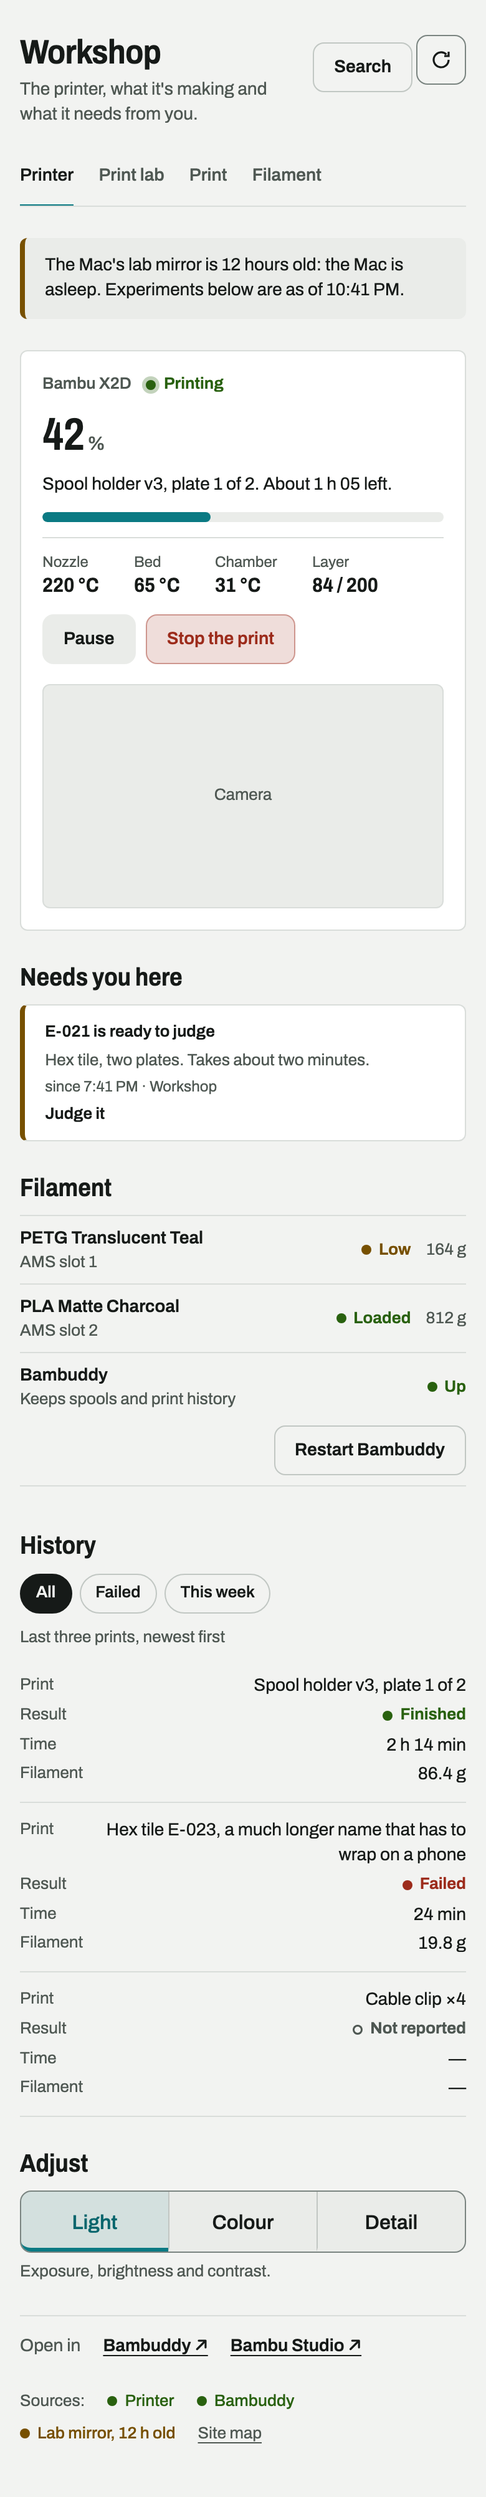
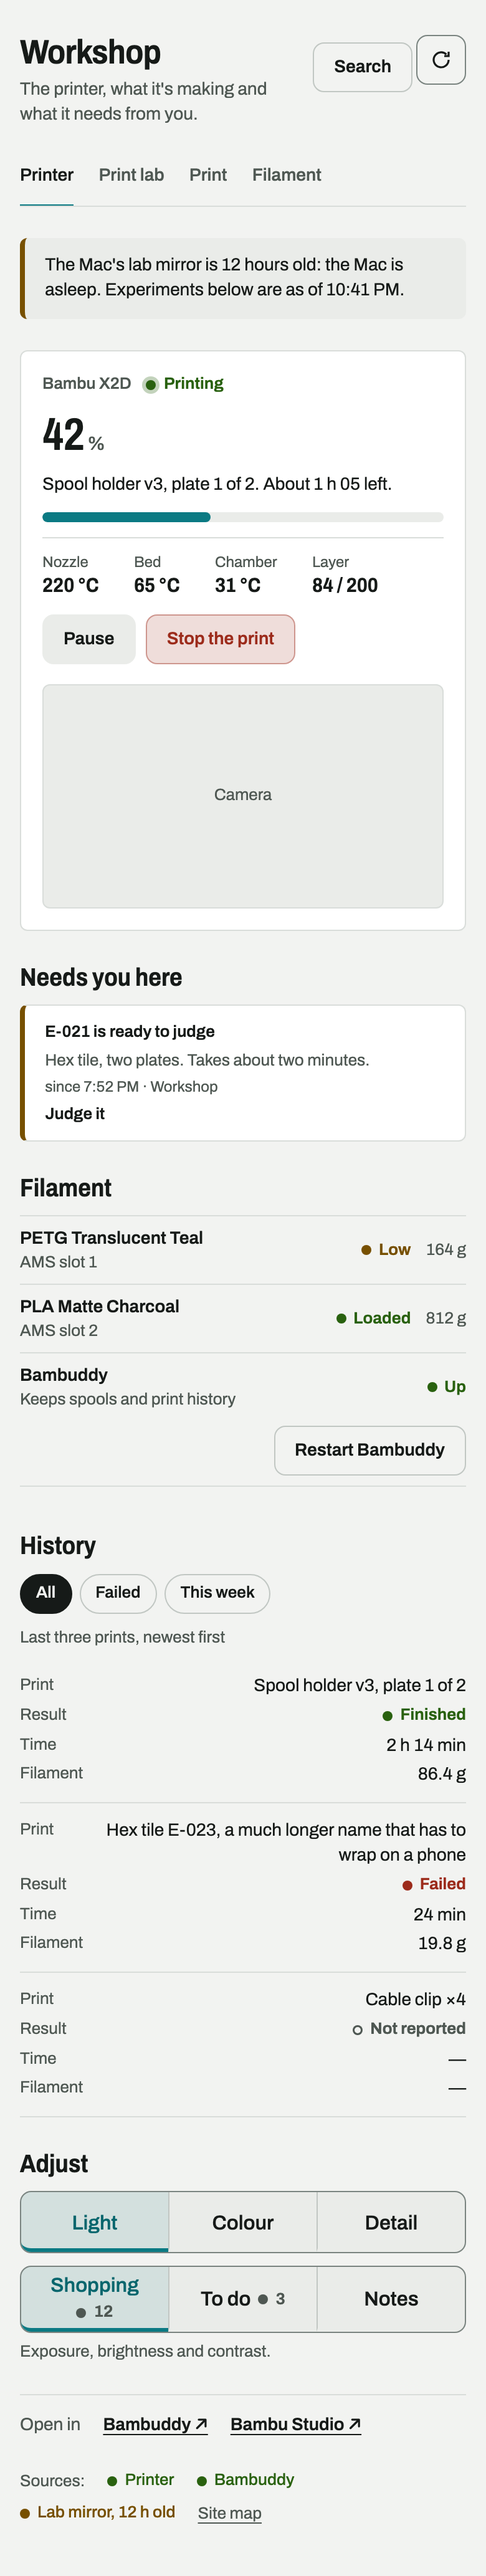
Kit 2.16.0: a tab's count drops under its label where the tab is narrow
Pi Hub's Lists at 320 px cut "Shopping 12" in a third of the width. The tab now wraps
what follows its label instead (the label itself stays whole); the tab stays at least
48 px. Test fails on the previous rule, passes now; demo has a Lists-shaped strip.

diff --git a/dist/components.css b/dist/components.css
@@ -74,10 +74,10 @@
    48 px high, 16 px labels (keep each to a word or two). The selected tab is marked three ways (an accent wash, accent
    text and a 3 px accent bar along its foot), so colour is never the only cue; the bar is a border, so it survives
    forced colours. Markup: role="tablist" on the strip, role="tab" and aria-selected on each button, and the app moves
-   focus between tabs with the arrow keys (the ARIA tabs pattern). A focused tab sits above its neighbours, so its
-   ring is never hidden. */
+   focus between tabs with the arrow keys (the ARIA tabs pattern). Where a tab is narrow, what follows its label (a
+   count) drops under it rather than being cut. A focused tab sits above its neighbours, so its ring is never hidden. */
 .ui-tabs{display:flex;margin:0;padding:0;border:1px solid var(--ui-field-line);border-radius:var(--ui-r-3);background:var(--ui-surface-2)}
-.ui-tabs>:is(button,a){flex:1 1 0;min-width:0;display:flex;align-items:center;justify-content:center;gap:6px;min-height:48px;margin:0;padding:3px calc(var(--ui-space)*3) 0;border:0;border-bottom:3px solid transparent;border-radius:0;background:transparent;color:var(--ui-text);font:550 var(--ui-fs-4)/1.2 var(--ui-font);white-space:nowrap;text-decoration:none;cursor:pointer}
+.ui-tabs>:is(button,a){flex:1 1 0;min-width:0;display:flex;flex-wrap:wrap;align-items:center;align-content:center;justify-content:center;gap:2px 6px;min-height:48px;margin:0;padding:5px calc(var(--ui-space)*2) 2px;border:0;border-bottom:3px solid transparent;border-radius:0;background:transparent;color:var(--ui-text);font:550 var(--ui-fs-4)/1.2 var(--ui-font);white-space:nowrap;text-decoration:none;cursor:pointer}
 .ui-tabs>:is(button,a)+:is(button,a){border-left:1px solid var(--ui-line-2)}
 .ui-tabs>:first-child{border-radius:calc(var(--ui-r-3) - 1px) 0 0 calc(var(--ui-r-3) - 1px)}
 .ui-tabs>:last-child{border-radius:0 calc(var(--ui-r-3) - 1px) calc(var(--ui-r-3) - 1px) 0}

diff --git a/src/components.css b/src/components.css
@@ -73,10 +73,10 @@
    48 px high, 16 px labels (keep each to a word or two). The selected tab is marked three ways (an accent wash, accent
    text and a 3 px accent bar along its foot), so colour is never the only cue; the bar is a border, so it survives
    forced colours. Markup: role="tablist" on the strip, role="tab" and aria-selected on each button, and the app moves
-   focus between tabs with the arrow keys (the ARIA tabs pattern). A focused tab sits above its neighbours, so its
-   ring is never hidden. */
+   focus between tabs with the arrow keys (the ARIA tabs pattern). Where a tab is narrow, what follows its label (a
+   count) drops under it rather than being cut. A focused tab sits above its neighbours, so its ring is never hidden. */
 .ui-tabs{display:flex;margin:0;padding:0;border:1px solid var(--ui-field-line);border-radius:var(--ui-r-3);background:var(--ui-surface-2)}
-.ui-tabs>:is(button,a){flex:1 1 0;min-width:0;display:flex;align-items:center;justify-content:center;gap:6px;min-height:48px;margin:0;padding:3px calc(var(--ui-space)*3) 0;border:0;border-bottom:3px solid transparent;border-radius:0;background:transparent;color:var(--ui-text);font:550 var(--ui-fs-4)/1.2 var(--ui-font);white-space:nowrap;text-decoration:none;cursor:pointer}
+.ui-tabs>:is(button,a){flex:1 1 0;min-width:0;display:flex;flex-wrap:wrap;align-items:center;align-content:center;justify-content:center;gap:2px 6px;min-height:48px;margin:0;padding:5px calc(var(--ui-space)*2) 2px;border:0;border-bottom:3px solid transparent;border-radius:0;background:transparent;color:var(--ui-text);font:550 var(--ui-fs-4)/1.2 var(--ui-font);white-space:nowrap;text-decoration:none;cursor:pointer}
 .ui-tabs>:is(button,a)+:is(button,a){border-left:1px solid var(--ui-line-2)}
 .ui-tabs>:first-child{border-radius:calc(var(--ui-r-3) - 1px) 0 0 calc(var(--ui-r-3) - 1px)}
 .ui-tabs>:last-child{border-radius:0 calc(var(--ui-r-3) - 1px) calc(var(--ui-r-3) - 1px) 0}

diff --git a/demo/page.html b/demo/page.html
@@ -71,6 +71,7 @@
   <section class="ui-section" aria-labelledby="adjust-h">
     <h2 id="adjust-h">Adjust</h2>
     <div class="ui-tabs" id="adjust-tabs" role="tablist" aria-label="Adjust"><button type="button" role="tab" id="tab-light" aria-selected="true" aria-controls="adjust-panel">Light</button><button type="button" role="tab" id="tab-colour" aria-selected="false" aria-controls="adjust-panel" tabindex="-1">Colour</button><button type="button" role="tab" id="tab-detail" aria-selected="false" aria-controls="adjust-panel" tabindex="-1">Detail</button></div>
+    <div class="ui-tabs" id="list-tabs" role="tablist" aria-label="Lists"><button type="button" role="tab" id="tab-shopping" aria-selected="true">Shopping <span class="ui-chip">12</span></button><button type="button" role="tab" id="tab-todo" aria-selected="false" tabindex="-1">To do <span class="ui-chip">3</span></button><button type="button" role="tab" id="tab-notes" aria-selected="false" tabindex="-1">Notes</button></div>
     <div id="adjust-panel" role="tabpanel" aria-labelledby="tab-light"><p class="ui-section__note">Exposure, brightness and contrast.</p></div>
   </section>
   <p class="ui-tools">Open in <a href="#">Bambuddy ↗</a><a href="#">Bambu Studio ↗</a></p>
